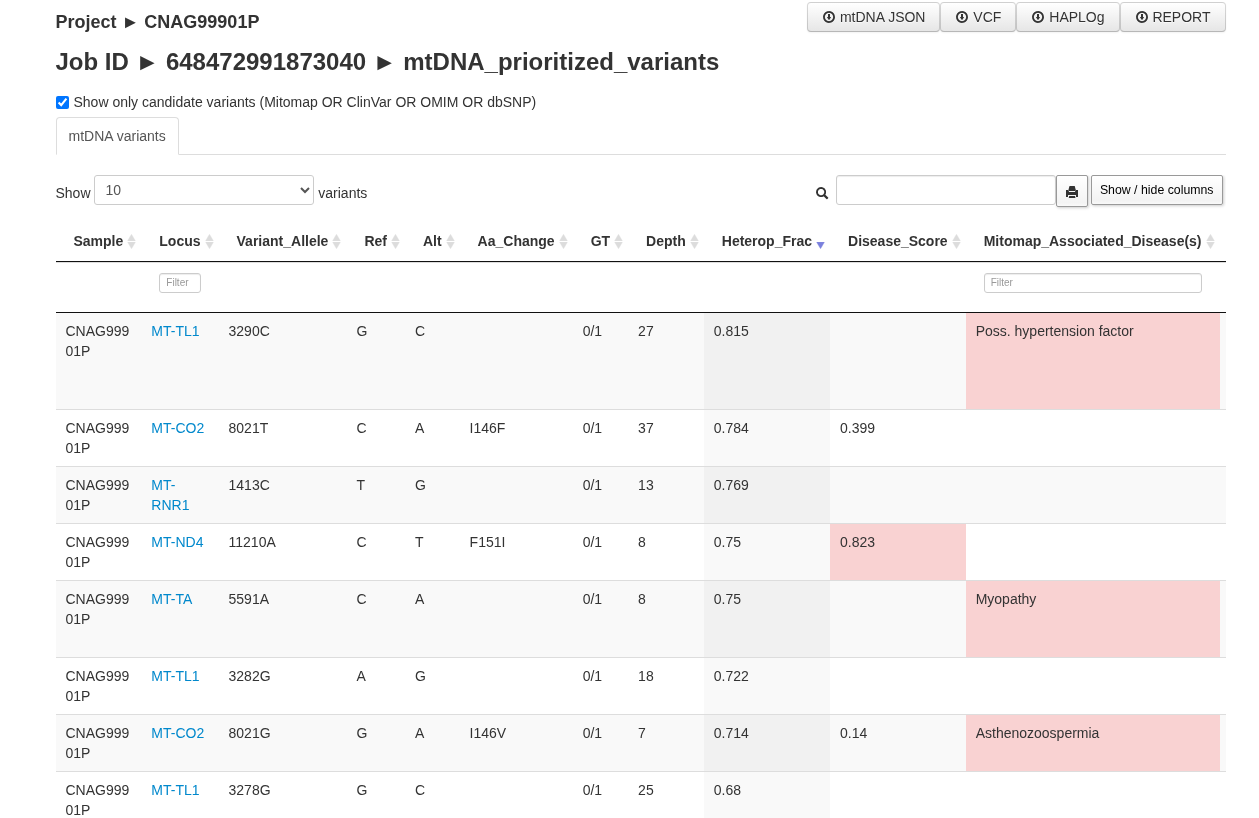
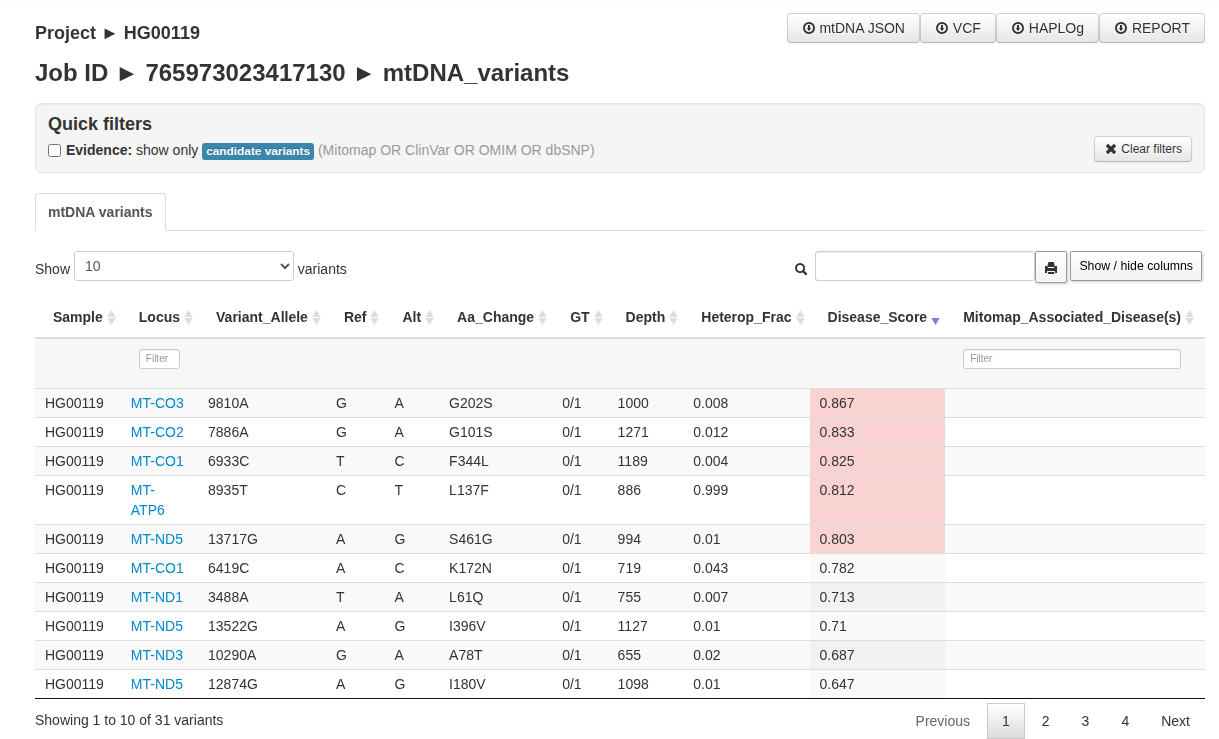
Source commit

diff --git a/browser/mtb2html.py b/browser/mtb2html.py
@@ -56,7 +56,7 @@ def main():
 
     disease_threshold = 0.80  # used only for coloring
 
-    # Use simple placeholders that we will .replace later:
+    # Placeholders we will .replace later:
     # __JSON_FILE__, __PROJECT_ID__, __JOB_ID__, __DOWNLOAD_BUTTONS__, __DISEASE_THRESHOLD__
     html = """<!DOCTYPE html>
 <html lang="en">
@@ -74,6 +74,37 @@ def main():
     <link rel="stylesheet" href="assets/jsD/media/css/dataTables.colVis.css">
     <link rel="stylesheet" href="assets/jsD/media/css/dataTables.tableTools.css">
 
+    <!-- Same vibe as bff2html (style only) -->
+    <style type="text/css">
+      /* Sticky filters bar */
+      .filters-bar {
+        position: sticky;
+        top: 50px; /* below navbar */
+        z-index: 999;
+        padding: 10px 12px;
+        border-radius: 6px;
+        margin-top: 10px;
+      }
+
+      /* Nicer table headers */
+      table.dataTable thead th {
+        background: #f7f7f7;
+        border-bottom: 1px solid #ddd !important;
+      }
+
+      /* Tighter rows */
+      table.dataTable tbody td {
+        padding-top: 4px;
+        padding-bottom: 4px;
+      }
+
+      /* Active tab cue */
+      .nav-tabs > .active > a,
+      .nav-tabs > .active > a:hover {
+        font-weight: bold;
+      }
+    </style>
+
     <script src="assets/js/jquery.min.js"></script>
     <script src="assets/js/bootstrap.min.js"></script>
     <script src="assets/jsD/media/js/jquery.dataTables.min.js"></script>
@@ -86,7 +117,7 @@ def main():
 
       var diseaseThreshold = __DISEASE_THRESHOLD__;
 
-      // FILTER: keep variants with ANY supporting evidence
+      // FILTER: keep variants with ANY supporting evidence (UNCHANGED)
       $.fn.dataTableExt.afnFiltering.push(
         function(oSettings, aData, iDataIndex) {
 
@@ -114,7 +145,7 @@ def main():
         }
       );
 
-      // DATATABLE
+      // DATATABLE (UNCHANGED except __JSON_FILE__ placeholder)
       var table = $('#table-panel-mtdna').dataTable({
         "ajax": {
           "url": "__JSON_FILE__",
@@ -172,7 +203,7 @@ def main():
       });
 
 
-      // PER-COLUMN FILTERS
+      // PER-COLUMN FILTERS (UNCHANGED)
       $('#table-panel-mtdna thead tr:eq(1) th').each(function(i) {
         if (i === 1 || i === 10 || i === 15 || i === 17) {
           $(this).html(
@@ -187,7 +218,15 @@ def main():
         table.fnFilter(this.value, index);
       });
 
+      // Existing toggle (UNCHANGED)
       $('#toggle-candidates').on('change', function() {
+        table.fnDraw();
+      });
+
+      // NEW (style-only UX): clear button resets just the candidate toggle
+      $('#btn-clear-filters').on('click', function(e) {
+        e.preventDefault();
+        $('#toggle-candidates').prop('checked', false);
         table.fnDraw();
       });
 
@@ -209,12 +248,29 @@ def main():
       __DOWNLOAD_BUTTONS__
 
       <h4>Project &#9658; __PROJECT_ID__</h4>
-      <h3>Job ID &#9658; __JOB_ID__ &#9658; mtDNA_prioritized_variants</h3>
+      <h3>Job ID &#9658; __JOB_ID__ &#9658; mtDNA_variants</h3>
 
-      <label class="checkbox">
-        <input type="checkbox" id="toggle-candidates">
-        Show only candidate variants (Mitomap OR ClinVar OR OMIM OR dbSNP)
-      </label>
+      <!-- Clinician-style Quick filters bar (style only) -->
+      <div class="well filters-bar">
+        <div class="row-fluid">
+          <div class="span9">
+            <h4 style="margin:0 0 6px 0;">Quick filters</h4>
+
+            <label class="checkbox" style="margin-bottom:0;">
+              <input type="checkbox" id="toggle-candidates">
+              <strong>Evidence:</strong>
+              show only <span class="label label-info">candidate variants</span>
+              <span class="muted">(Mitomap OR ClinVar OR OMIM OR dbSNP)</span>
+            </label>
+          </div>
+
+          <div class="span3" style="text-align:right;">
+            <button class="btn btn-small" id="btn-clear-filters" style="margin-top:22px;">
+              <i class="icon-remove"></i> Clear filters
+            </button>
+          </div>
+        </div>
+      </div>
 
       <ul class="nav nav-tabs">
         <li class="active"><a href="#tab-panel-mtdna" data-toggle="tab">mtDNA variants</a></li>
@@ -251,7 +307,7 @@ def main():
 </html>
 """
 
-    # Now substitute placeholders safely
+    # Substitute placeholders safely
     html = html.replace("__JSON_FILE__", json_file)
     html = html.replace("__PROJECT_ID__", project_id)
     html = html.replace("__JOB_ID__", job_id)
@@ -265,3 +321,4 @@ def main():
 
 if __name__ == "__main__":
     sys.exit(main())
+
